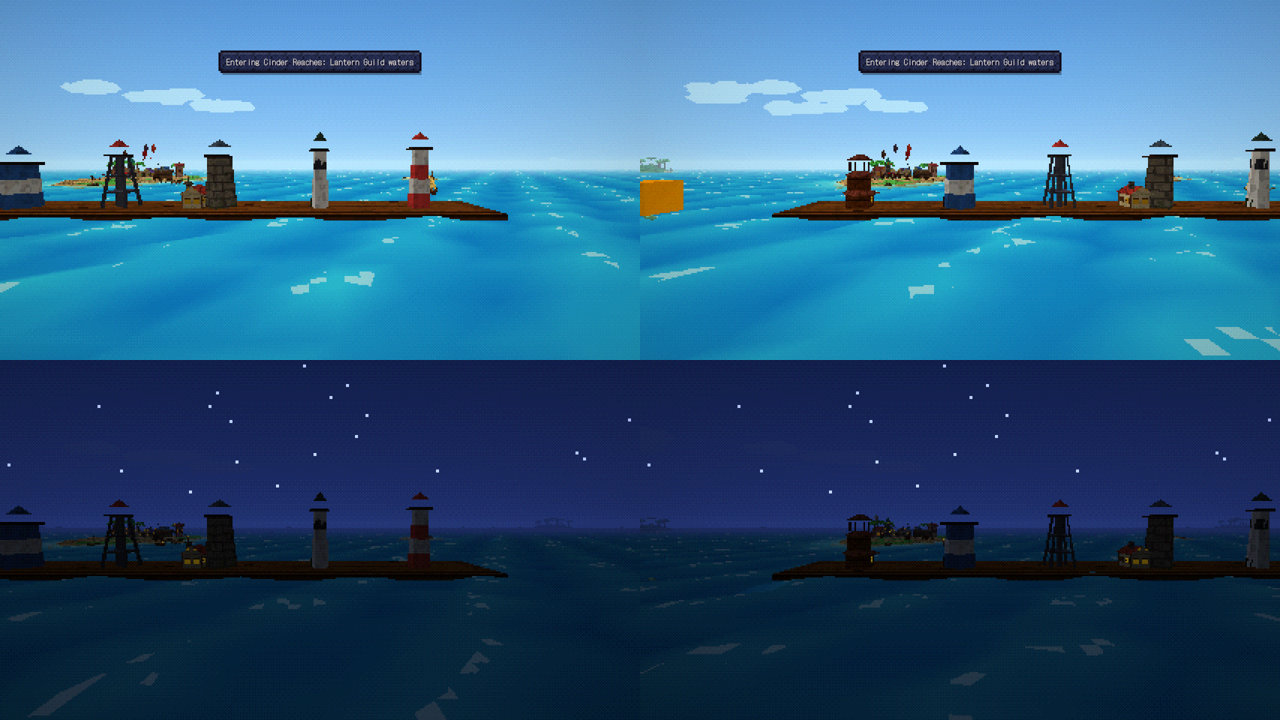
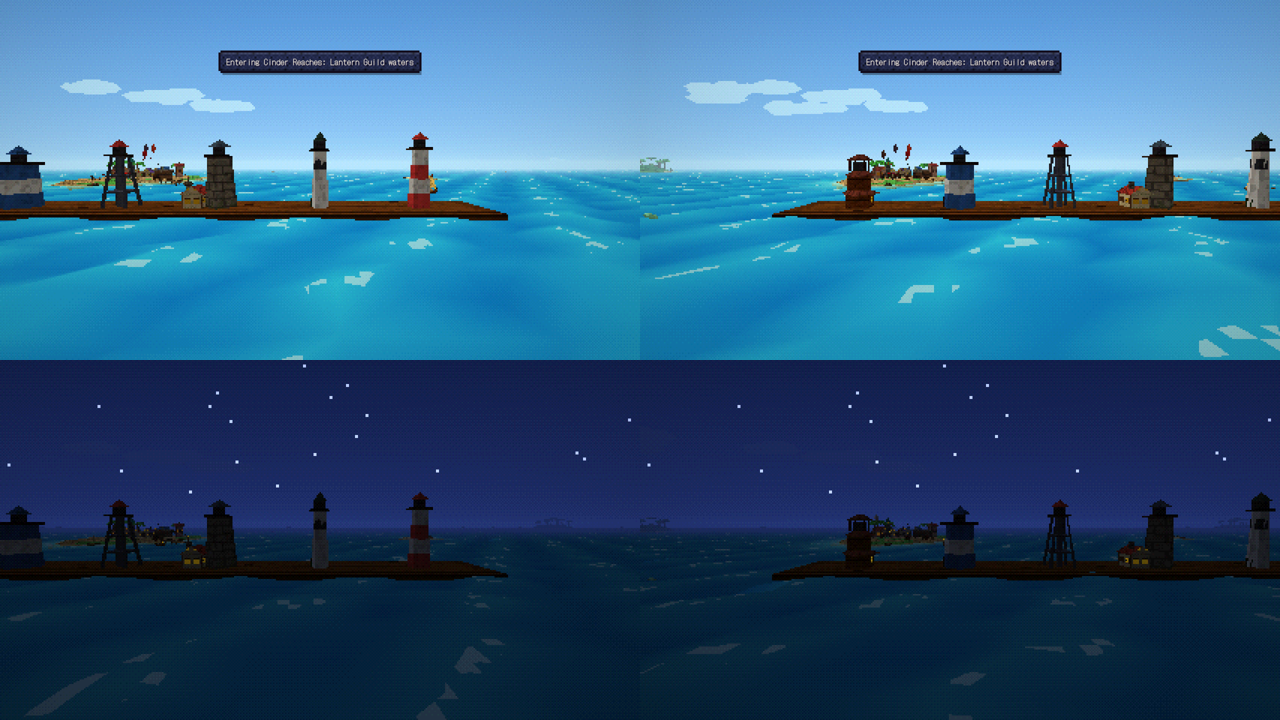
Lighthouse showcase shows the lantern room; pagoda posts reach the roof
Claude-Session: https://claude.ai/code/session_012FNPb5phTKBpgDx5pPLapM

diff --git a/src/main.js b/src/main.js
@@ -1669,7 +1669,7 @@ window.__game = {
     if (this._show) scene.remove(this._show);
     const b = new Builder(), ex = {};
     b.box(0, -0.6, 0, 16 * LH_KINDS.length + 4, 0.8, 14, '#9a7a50', TILE.planks);
-    LH_KINDS.forEach((k, i) => lighthouse(b, ex, (i - (LH_KINDS.length - 1) / 2) * 16, 0.2, 0, 1, null, k));
+    LH_KINDS.forEach((k, i) => { lighthouse(b, ex, (i - (LH_KINDS.length - 1) / 2) * 16, 0.2, 0, 1, null, k); b.cyl(ex.lamp.x, ex.lamp.y, ex.lamp.z, 1.0, 1.0, 1.3, 6, '#4a4450', TILE.stone, false); });   // the lantern room, as an island adds it
     this._show = new THREE.Mesh(b.geometry(), mats.props); this._show.position.set(x, 0.4, z); scene.add(this._show); return LH_KINDS;
   },
   /** size comparison: three houses with villagers in front, the ship beside them, a 1-unit ruler */

diff --git a/src/world.js b/src/world.js
@@ -617,7 +617,7 @@ export function lighthouse(A, extra, lx, ly, lz, tall = 1, d = null, forceKind =
         for (const sx of [-1, 1]) A.box(lx + sx * (w / 2 + 0.02), ly + y + 0.9 * tall, lz, 0.1, 0.9, 0.9, '#ffffff', TILE.glow);
         A.cyl(lx, ly + y + 2.2 * tall, lz, w * 0.95, w * 0.36, 0.75 * tall, 4, '#7a3a2a', TILE.roof);
       }
-      for (const sx of [-1, 1]) for (const sz of [-1, 1]) A.box(lx + sx * 1.1, ly + 5.8 * tall, lz + sz * 1.1, 0.3, 1.5, 0.3, '#5a2a1a', TILE.planks);
+      for (const sx of [-1, 1]) for (const sz of [-1, 1]) A.box(lx + sx * 1.1, ly + 5.8 * tall, lz + sz * 1.1, 0.3, 1.75, 0.3, '#5a2a1a', TILE.planks);
       lamp(5.95 * tall);
       A.cyl(lx, ly + 7.45 * tall, lz, 2.2, 0.6, 1.0 * tall, 4, '#7a3a2a', TILE.roof);
       break;
